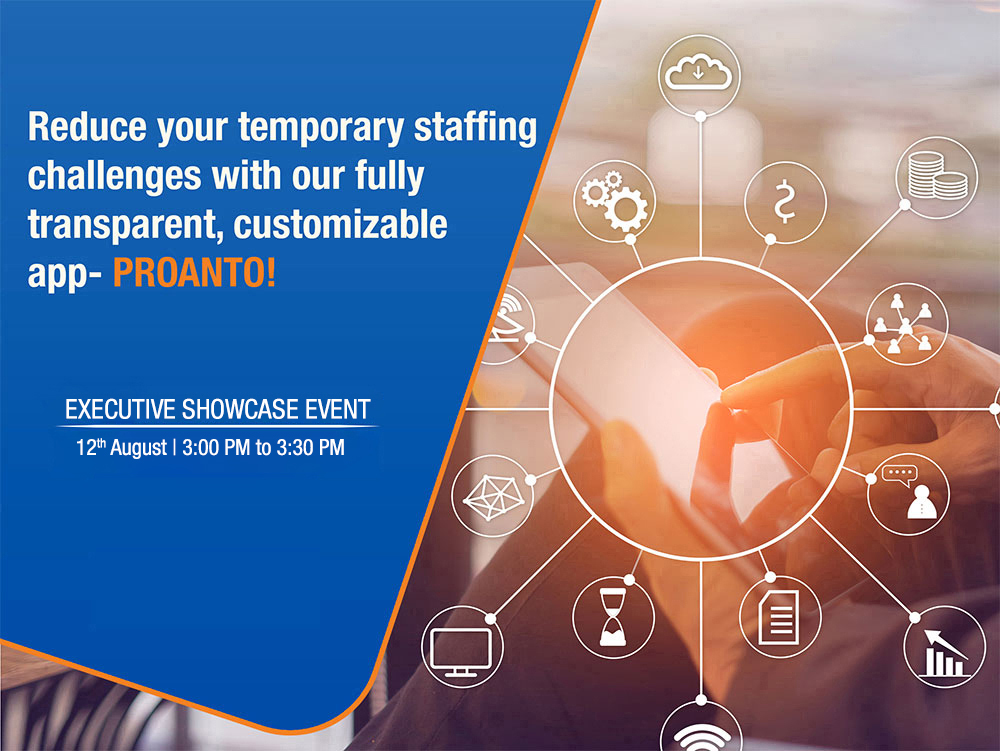
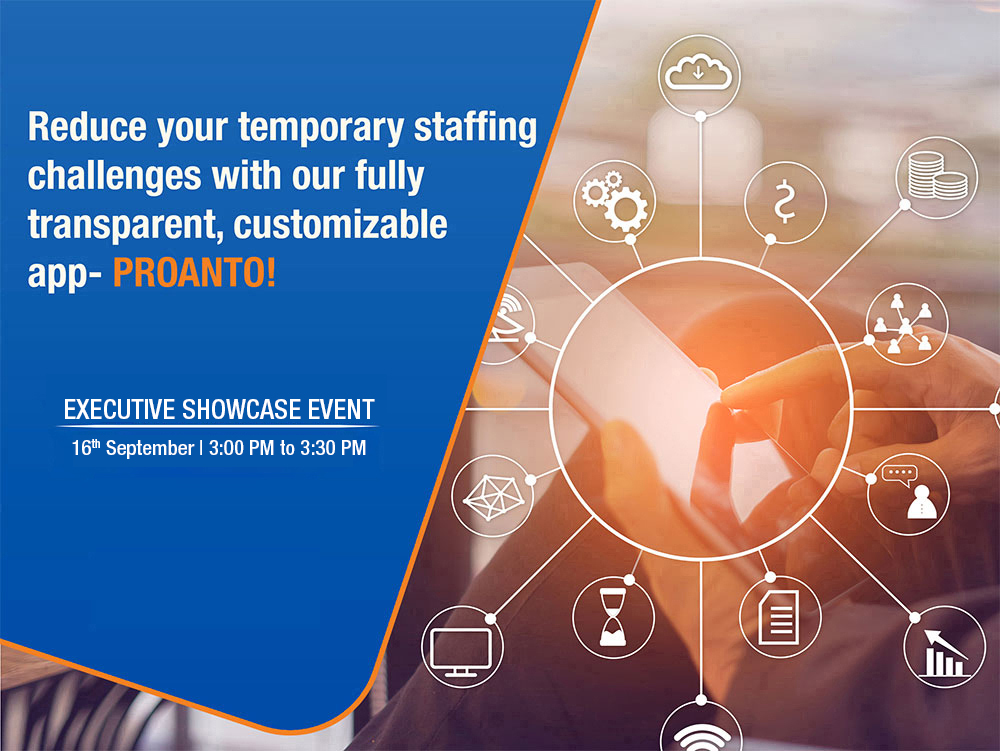
changes

Changed region(s): [[0.062, 0.5206, 0.372, 0.6125]]

diff --git a/pages/events.js b/pages/events.js
@@ -50,51 +50,7 @@ export default function Events(){
                     <h2 className="mainh1"><span></span>Executive Showcase Events Schedule</h2>
                 </div>
                 <div className="row">
-                    
-                    <div className="col-lg-4 col-sm-6">
-                        <div className="pricing-item wow fadeInUp delay-0-2s">
-                            <div className="pricing-header">
-                                <h5 className="pricing-title">Executive Showcase Event</h5>
-                                <span className="price">13th May - 2022</span>
-                                <h3 className="time">03:00 PM to 03:30 PM</h3>
-                            </div>
-                            <a className="theme-btn btn-circle mt-20" href="#register-now">Register Now</a>
-                        </div>
-                    </div>
-                    
-                    <div className="col-lg-4 col-sm-6">
-                        <div className="pricing-item wow fadeInUp delay-0-2s">
-                            <div className="pricing-header">
-                                <h5 className="pricing-title">Executive Showcase Event</h5>
-                                <span className="price">10th June - 2022</span>
-                               <h3 className="time">03:00 PM to 03:30 PM</h3>
-                            </div>
-                            <a className="theme-btn btn-circle mt-20" href="#register-now">Register Now</a>
-                        </div>
-                    </div>
-                    
-                    <div className="col-lg-4 col-sm-6">
-                        <div className="pricing-item wow fadeInUp delay-0-2s">
-                            <div className="pricing-header">
-                                <h5 className="pricing-title">Executive Showcase Event</h5>
-                                <span className="price">8th July - 2022</span>
-                                <h3 className="time">03:00 PM to 03:30 PM</h3>
-                            </div>
-                            <a className="theme-btn btn-circle mt-20" href="#register-now">Register Now</a>
-                        </div>
-                    </div>
-                    
-                    <div className="col-lg-4 col-sm-6">
-                        <div className="pricing-item wow fadeInUp delay-0-2s">
-                            <div className="pricing-header">
-                                <h5 className="pricing-title">Executive Showcase Event</h5>
-                                <span className="price">12th Aug - 2022</span>
-                                <h3 className="time">03:00 PM to 03:30 PM</h3>
-                            </div>
-                            <a className="theme-btn btn-circle mt-20" href="#register-now">Register Now</a>
-                        </div>
-                    </div>
-                    
+               
                     <div className="col-lg-4 col-sm-6">
                         <div className="pricing-item wow fadeInUp delay-0-2s">
                             <div className="pricing-header">
@@ -173,11 +129,7 @@ export default function Events(){
                                     </div>
                                     <div className="form-group col-sm-6">
                                     <select className="form-control" name="interest_in" required>
-                                        <option value="">---Pick up Slot*---</option>
-                                        <option value="Executive Showcase Event : 13th May - 2022">Executive Showcase Event : 13th May - 2022</option>
-                                        <option value="Executive Showcase Event : 10th June - 2022">Executive Showcase Event : 10th June - 2022</option>
-                                        <option value="Executive Showcase Event : 8th July - 2022">Executive Showcase Event : 8th July - 2022</option>
-                                        <option value="Executive Showcase Event : 12th Aug - 2022">Executive Showcase Event : 12th Aug - 2022</option>
+                                        <option value="">---Pick up Slot*---</option>                                        
                                         <option value="Executive Showcase Event : 16th Sep - 2022">Executive Showcase Event : 16th Sep - 2022</option>
                                         <option value="Executive Showcase Event : 14th Oct - 2022">Executive Showcase Event : 14th Oct - 2022</option>
                                         <option value="Executive Showcase Event : 11th Nov - 2022">Executive Showcase Event : 11th Nov - 2022</option>

diff --git a/pages/[blogsSlug].js b/pages/[blogsSlug].js
@@ -332,13 +332,7 @@ export default function singleblog({ posts, posts5, cats, postfeedback }) {
                                     <h3 className="widget-title">Upcoming Events</h3>
                                     <div className="widget-news-wrap">
                                         
-                                        <div className="widget-news-item">
-                                            <img src="/assets/img/planner.png" alt="" />
-                                            <div className="widget-news-content">
-                                                <h5><Link href="/events"><a>Executive Showcase Event</a></Link></h5>
-                                                <span className="date"><Link href="/events"><a>12th Aug - 2022</a></Link></span>
-                                            </div>
-                                        </div>
+                                       
 
                                         <div className="widget-news-item">
                                             <img src="/assets/img/planner.png" alt="" />

diff --git a/pages/blogs.js b/pages/blogs.js
@@ -213,13 +213,7 @@ export default function index({posts, cats}) {
                                 <h3 className="widget-title">Upcoming Events</h3>
                                 <div className="widget-news-wrap">
                                     
-                                    <div className="widget-news-item">
-                                        <img src="/assets/img/planner.png" alt=""/>
-                                        <div className="widget-news-content">
-                                            <h5><Link  href="/events"><a>Executive Showcase Event</a></Link></h5>
-                                            <span className="date"><Link  href="/events"><a>12th Aug - 2022</a></Link></span>
-                                        </div>
-                                    </div>
+                                   
                                     
                                     <div className="widget-news-item">
                                         <img src="/assets/img/planner.png" alt=""/>

diff --git a/pages/category/[catBlog].js b/pages/category/[catBlog].js
@@ -220,13 +220,6 @@ export default function index({posts, cats, posts5}) {
                                 <h3 className="widget-title">Upcoming Events</h3>
                                 <div className="widget-news-wrap">
                                     
-                                    <div className="widget-news-item">
-                                        <img src="/assets/img/planner.png" alt=""/>
-                                        <div className="widget-news-content">
-                                            <h5><Link  href="/events"><a>Executive Showcase Event</a></Link></h5>
-                                            <span className="date"><Link  href="/events"><a>12th Aug - 2022</a></Link></span>
-                                        </div>
-                                    </div>
                                     
                                     <div className="widget-news-item">
                                         <img src="/assets/img/planner.png" alt=""/>

diff --git a/pages/yoma-executive-showcase-lp.js b/pages/yoma-executive-showcase-lp.js
@@ -75,7 +75,7 @@ export default function YomaExecutiveShowcase(){
                                     <div className="form-group col-sm-6">
                                     <select className="form-control" name="interest_in" required>
                                         <option value="">---Pick up Slot*---</option>
-                                        <option value="YOMA Executive Showcase Event : 12th August, 2022">YOMA Executive Showcase Event : 12th August, 2022</option>
+                                        <option value="YOMA Executive Showcase Event :16th September, 2022">YOMA Executive Showcase Event : 16th September, 2022</option>
                                     </select>                  
                                     </div>
 
